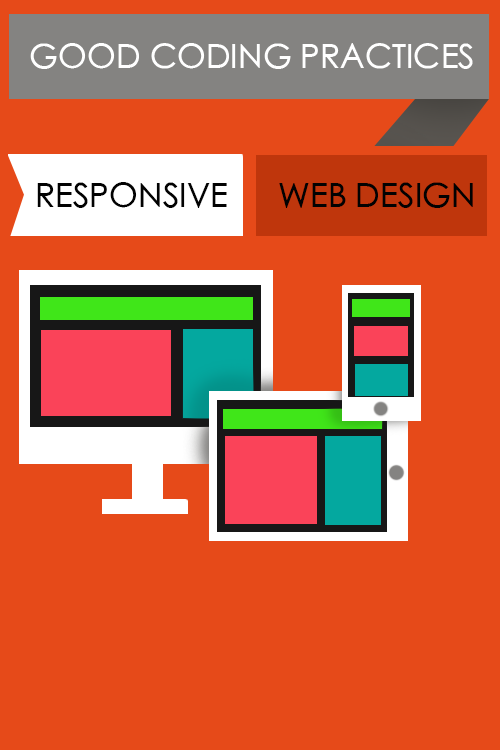
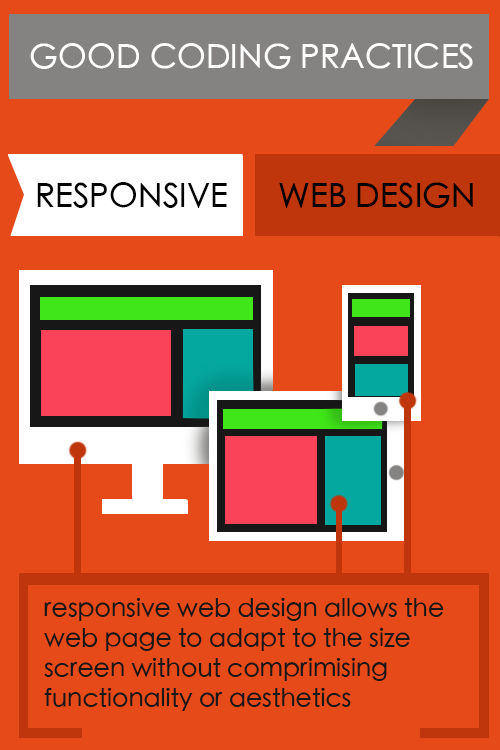
asdf

Changed region(s): [[0.03, 0.5213, 0.99, 1.0], [0.96, 0.184, 1.0, 0.3373]]

diff --git a/practices.html b/practices.html
@@ -34,12 +34,15 @@
     <div class="practicesContent">
         <div class='practices'>
             <img class='goodPractice' src='responsive.png'>
+            <img class='goodPractice' src='practices2.png'>
+            <img class='goodPractice browswer' src='browser1.png'>
+            <img class='goodPractice browswer' src='browser2.png'>
         </div>
-       responsive web design
-       checking product through all browsers
+       
+       
+    </div>  
        commenting
        proper indentation
        simplicity
-    </div>
 </body>
 </html>

diff --git a/main.css b/main.css
@@ -175,7 +175,10 @@ ul{
     width: 499px;
     float: left;
 }
-
+browswer{
+    margin-top: 30px;
+    margin-bottom: 30px;
+}
 /*///////////////////////////////////////////////////////////////////////////////////////////
 /////////////////////////////           tools content         ///////////////////////////////
 ///////////////////////////////////////////////////////////////////////////////////////////*/
